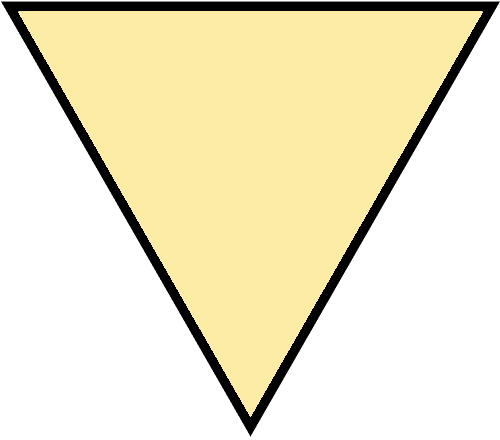
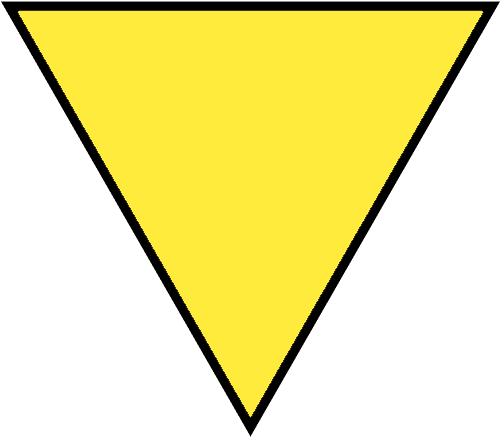
Add blockStyle options

diff --git a/src/game/logic.ts b/src/game/logic.ts
@@ -238,7 +238,7 @@ export function takeTurn( tilesInHand: NewBlock[], drawPile: NewBlock[], gameBoa
           newTiles.splice(index, 1);
           tilesInHand = tilesInHand.concat(newTiles);
 
-          console.log("Tile played: " + potentialMoves[0].placedBlock.newBlockID + " at " + toKey(potentialMoves[0].coord));
+          // console.log("Tile played: " + potentialMoves[0].placedBlock.newBlockID + " at " + toKey(potentialMoves[0].coord));
           gameBoard.set( toKey(potentialMoves[0].coord), potentialMoves[0].placedBlock );
 
           pointsForTurn += pointsFromPlay( potentialMoves[0].placedBlock, potentialMoves[0].coord, gameBoard );
@@ -278,7 +278,7 @@ export function determineAction( gameState: GameState, playerIndex: number ): Ac
 // Function to determine points from placing a tile
 export function pointsFromPlay( placedBlock: PlacedBlock, coord: Coordinate, gameBoard: GameBoard ): number {
   let points: number = placedBlock.newBlockID.split(',').map(Number).reduce((sum, num) => sum + num, 0);
-  console.log("Tile points = " + points);
+  // console.log("Tile points = " + points);
   // Determine if placedBlock completes one of 3 possible hexagons (50 points per hexagon)
   // Need to check coordinates of hexagon formed around the 3 vertices of placedBlock
   if( placedBlock.orientation === 'up' ) {
@@ -306,7 +306,7 @@ export function pointsFromPlay( placedBlock: PlacedBlock, coord: Coordinate, gam
     if( hexAbove ) points += 50;
     if( hexDownLeft ) points += 50;
     if( hexDownRight ) points += 50;
-    console.log("Hexagons" + hexAbove + hexDownLeft + hexDownRight);
+    // console.log("Hexagons" + hexAbove + hexDownLeft + hexDownRight);
   } else {
     // Check Down: (x-1,y), (x+1,y), (x-1,y-1), (x,y-1), (x+1,y-1)
     // Check UpLeft: (x-2,y), (x-1,y), (x-2,y+1), (x-1,y+1), (x,y+1)
@@ -332,7 +332,7 @@ export function pointsFromPlay( placedBlock: PlacedBlock, coord: Coordinate, gam
     if( hexBelow ) points += 50;
     if( hexUpLeft ) points += 50;
     if( hexUpRight ) points += 50;
-    console.log("Hexagons" + hexBelow + hexUpLeft + hexUpRight);
+    // console.log("Hexagons" + hexBelow + hexUpLeft + hexUpRight);
   }
 
   
@@ -356,7 +356,7 @@ export function pointsFromPlay( placedBlock: PlacedBlock, coord: Coordinate, gam
     if( bridgeAbove ) points += 40;
     if( bridgeDownLeft ) points += 40;
     if( bridgeDownRight ) points += 40;
-    console.log("Bridges" + bridgeAbove + bridgeDownLeft + bridgeDownRight);
+    // console.log("Bridges" + bridgeAbove + bridgeDownLeft + bridgeDownRight);
   } else {
     // Check Below: (x,y+1) & (x,y-1)
     // Check UpLeft: (x+1,y) & (x-2,y+1)
@@ -373,7 +373,7 @@ export function pointsFromPlay( placedBlock: PlacedBlock, coord: Coordinate, gam
     if( bridgeBelow ) points += 40;
     if( bridgeUpLeft ) points += 40;
     if( bridgeUpRight ) points += 40;
-    console.log("Bridges" + bridgeBelow + bridgeUpLeft + bridgeUpRight);
+    // console.log("Bridges" + bridgeBelow + bridgeUpLeft + bridgeUpRight);
   }
   
   return points;

diff --git a/src/components/Game.css b/src/components/Game.css
@@ -39,11 +39,30 @@ main {
   background-image: url('triangle-down.png');
   padding-bottom: 1em;
 }
-.block-inner.block-up.potential {
+.block-inner.block-up.most-recent {
+  background-image: url('triangle-up-invert.png');
+  color: white;
+}
+.block-inner.block-down.most-recent {
+  background-image: url('triangle-down-invert.png');
+  color: white;
+}
+.block-inner.block-up.selected {
   background-image: url('triangle-up-yellow.png');
 }
-.block-inner.block-down.potential {
+.block-inner.block-down.selected {
   background-image: url('triangle-down-yellow.png');
+}
+.block-inner.block-up.playable {
+  /* Light Blue variant:
+  background-image: url('triangle-up-lightblue.png');
+  color: #add8e6 */
+  background-image: url('triangle-up-yellow.png');
+  color: #ffeb3b;
+}
+.block-inner.block-down.playable {
+  background-image: url('triangle-down-yellow.png');
+  color: #ffeb3b;
 }
 .block-inner .clickzone {
   position: absolute;

diff --git a/src/components/GameBoardView.tsx b/src/components/GameBoardView.tsx
@@ -20,6 +20,7 @@ export function GameBoardView(props: {
           placedBlock = {placedBlock}
           game={gameState}
           setGame={setGame}
+          blockStyle={toKey(gameState.lastPlay) === coord ? 'most-recent' : ''}
         />
       ))}
       {props.tileInHand ? searchForMove(props.tileInHand, gameState.gameBoard).map(potentialMove => (
@@ -29,7 +30,7 @@ export function GameBoardView(props: {
           placedBlock = {potentialMove.placedBlock}
           game={gameState}
           setGame={setGame}
-          isPotential={true}
+          blockStyle={'playable'}
         />
       )) : null}
     </div>

diff --git a/src/components/BlockRender.tsx b/src/components/BlockRender.tsx
@@ -6,7 +6,10 @@ export function BlockRender(props: {
   orientation: 'up' | 'down';
   onClick?: () => void;
   style?: CSSProperties;
-  isPotential?: boolean;
+  blockStyle?: string;
+    // 'selected' = yellow shading in hand
+    // 'playable' = dashed outline of blank tile on board
+    // 'most-recent' = invert color of last tile played
 }) {
 
   const classNames = [
@@ -14,8 +17,8 @@ export function BlockRender(props: {
     props.orientation === 'up'
       ? 'block-up'
       : 'block-down',
-    props.isPotential
-      ? 'potential'
+    props.blockStyle
+      ? props.blockStyle
       : '',
   ];
   return (

diff --git a/src/components/BlockOnBoard.tsx b/src/components/BlockOnBoard.tsx
@@ -7,7 +7,7 @@ export function BlockOnBoard(props: {
   placedBlock: PlacedBlock;
   game: GameState;
   setGame: (newGame: GameState) => void;
-  isPotential?: boolean;
+  blockStyle?: string;
 }) {
   const width = 90;
   const position: CSSProperties = {
@@ -28,7 +28,7 @@ export function BlockOnBoard(props: {
       top={top}
       bottom={bottom}
       orientation={props.placedBlock.orientation}
-      isPotential={props.isPotential}
+      blockStyle={props.blockStyle}
     />
   );
 }

diff --git a/src/game/_todo.ts b/src/game/_todo.ts
@@ -9,6 +9,12 @@ gameBoard.entries();
 Add style for triangles
 Clickable draw pile (bottom right)
 
+May 4 HOMEWORK:
+- on hover, instead of bold use invert triangle (set text white)
+- click selects tile, click again deselects it
+- click selects tile, click board places it (need to add click handler to blocks on board)
+
+
 Add ability to play solitaire
 Add ability to play versus computer
 Add ability to play versus another human (like Paul's Avalon site)

diff --git a/src/components/BlockInHand.tsx b/src/components/BlockInHand.tsx
@@ -37,7 +37,7 @@ export function BlockInHand(props: {
       bottom={bottom}
       orientation={'up'}
       onClick={onClick}
-      isPotential={props.isSelected}
+      blockStyle={props.isSelected ? 'selected' : ''}
     />
   );
 }
